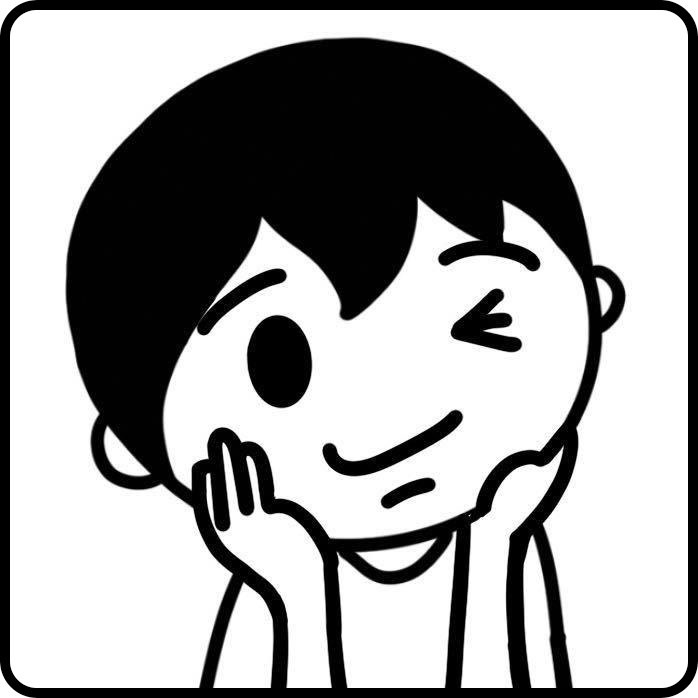
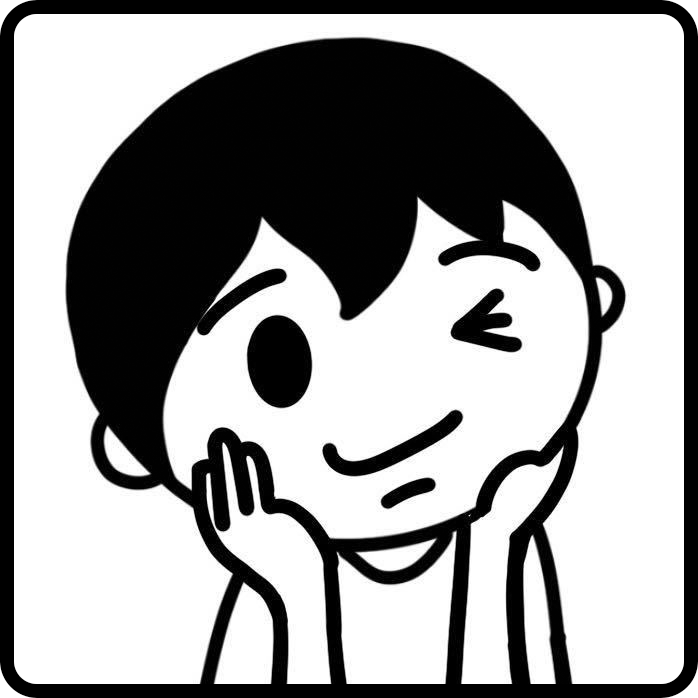
Replace Muzi portrait and align bold designer credit

diff --git a/index.html b/index.html
@@ -1,7 +1,7 @@
-<!doctype html><html lang="zh-CN"><head><meta charset="utf-8"><meta name="viewport" content="width=device-width,initial-scale=1"><title>Design Update · 设计简报</title><meta name="description" content="平面、品牌与字体设计精选。每三天，发现值得收录的新设计。"><link rel="stylesheet" href="style.css?v=github-muzi-20261022"></head><body>
+<!doctype html><html lang="zh-CN"><head><meta charset="utf-8"><meta name="viewport" content="width=device-width,initial-scale=1"><title>Design Update · 设计简报</title><meta name="description" content="平面、品牌与字体设计精选。每三天，发现值得收录的新设计。"><link rel="stylesheet" href="style.css?v=github-muzi2-20261022"></head><body>
 
-<main><section class="preview-masthead"><h1 class="preview-title"><span>DESIGN</span><span>UPDATE</span></h1><div class="masthead-right"><div class="archive-bar"><label>往期简报 <select id="issue-select" aria-label="选择简报日期"></select></label><a href="sources.html">来源库 ↗</a></div><div class="masthead-meta"><p id="coverage" class="coverage"></p><span id="archive-note">每期独立保存</span></div><figure class="designer-credit"><img src="assets/muzi-avatar.png" alt="Muzi 的黑白插画头像" width="688" height="698"><figcaption>Designed by Muzi</figcaption></figure></div></section><button id="connect" class="connection"><span>Eagle · 点击连接</span></button><div class="toolbar"><nav aria-label="按 Eagle 内容标签筛选"></nav><label class="search"><span>⌕</span><input id="search" type="search" placeholder="搜索品牌、工作室或关键词" aria-label="搜索简报"></label></div>
+<main><section class="preview-masthead"><h1 class="preview-title"><span>DESIGN</span><span>UPDATE</span></h1><div class="masthead-right"><div class="archive-bar"><label>往期简报 <select id="issue-select" aria-label="选择简报日期"></select></label><a href="sources.html">来源库 ↗</a></div><div class="masthead-meta"><p id="coverage" class="coverage"></p><span id="archive-note">每期独立保存</span></div><figure class="designer-credit"><img src="assets/muzi-avatar.png?v=2" alt="Muzi 的黑白插画头像" width="698" height="698"><figcaption><span>Designed</span> <span>by</span> <span>Muzi</span></figcaption></figure></div></section><button id="connect" class="connection"><span>Eagle · 点击连接</span></button><div class="toolbar"><nav aria-label="按 Eagle 内容标签筛选"></nav><label class="search"><span>⌕</span><input id="search" type="search" placeholder="搜索品牌、工作室或关键词" aria-label="搜索简报"></label></div>
 <div class="list-heading"><span id="count">精选 5 条</span><span>按重要程度编排 · 首发与新报道分开标注</span></div><section id="articles" aria-label="设计简报列表"></section><div id="empty" hidden>没有找到相关内容，换个关键词试试。</div>
 <footer><div>Design Update · 设计简报</div><p>图片归原作者所有 · 来源见各篇原文<br>每期覆盖三个完整自然日 · 日期以来源标注为准。</p></footer></main>
 <dialog id="gallery" aria-labelledby="dialog-title"><div class="dialog-top"><div><span class="eyebrow">COLLECT TO EAGLE</span><h2 id="dialog-title"></h2></div><button class="close" aria-label="关闭图片预览">×</button></div><p class="dialog-note">点击收录后，已审核作品图会按预设文件夹、内容标签和实际收录年份保存到当前电脑的 Eagle。无需选择分类。首次使用请打开 Eagle，并允许浏览器访问本地网络；封面仅用于预览。</p><div id="gallery-grid"></div><div class="dialog-bottom"><div><strong id="selection"></strong><p id="destination">按每张图的分类归档；新图添加实际收录年份。</p></div><button id="import" class="primary">收录所选图片</button></div><p id="result" role="status" aria-live="polite"></p></dialog>
-<div id="toast" role="status" aria-live="polite" hidden></div><script src="app.js?v=github-muzi-20261022" defer></script></body></html>
+<div id="toast" role="status" aria-live="polite" hidden></div><script src="app.js?v=github-muzi2-20261022" defer></script></body></html>

diff --git a/style.css b/style.css
@@ -59,3 +59,10 @@ main{max-width:none;padding:0 2%;margin:0 auto}
 .designer-credit img{display:block;width:112px;height:auto;max-width:100%;object-fit:contain}
 .designer-credit figcaption{margin-top:7px;color:#000;font:11px/1.3 Arial,"Helvetica Neue",sans-serif;white-space:nowrap}
 @media(max-width:680px){.designer-credit{width:84px;padding-top:24px}.designer-credit img{width:84px}.designer-credit figcaption{font-size:9px;margin-top:6px}}
+
+/* Match the uppercase title's visible lower edge, rather than its line box. */
+.preview-masthead{--title-size:clamp(95px,11.5vw,190px)}
+.masthead-right{padding-bottom:calc(var(--title-size) * .12)}
+.designer-credit figcaption{display:flex;justify-content:space-between;width:100%;font-weight:700;line-height:1;margin-top:8px}
+@media(max-width:1050px){.preview-masthead{--title-size:clamp(76px,12vw,128px)}}
+@media(max-width:680px){.masthead-right{padding-bottom:0}.designer-credit figcaption{font-size:9px}}
